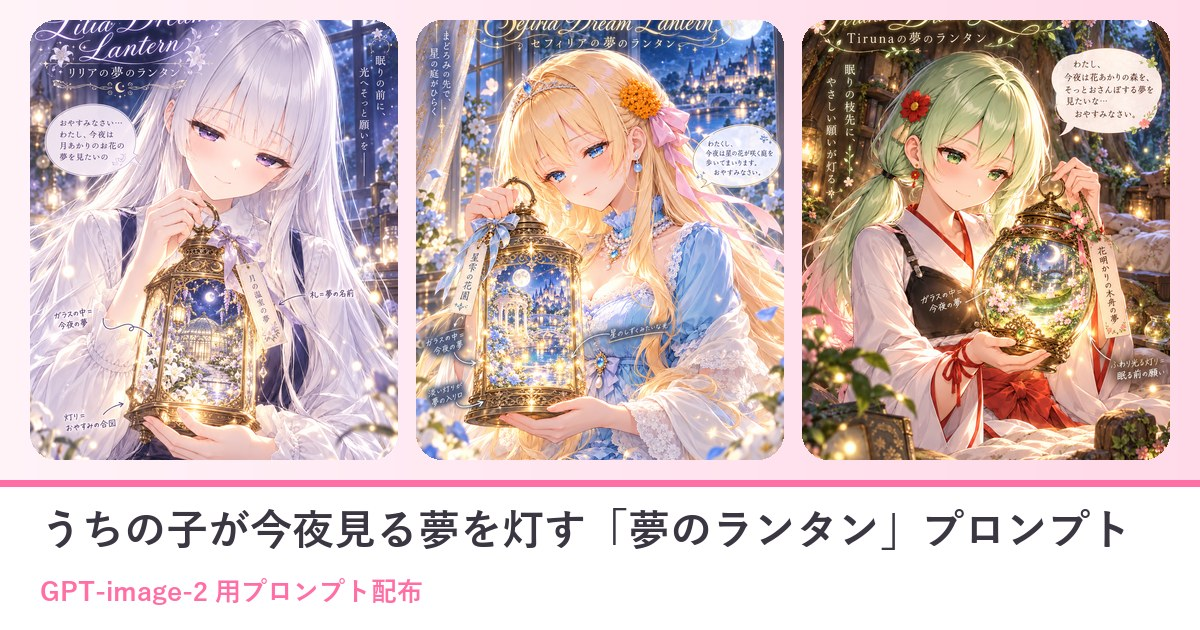
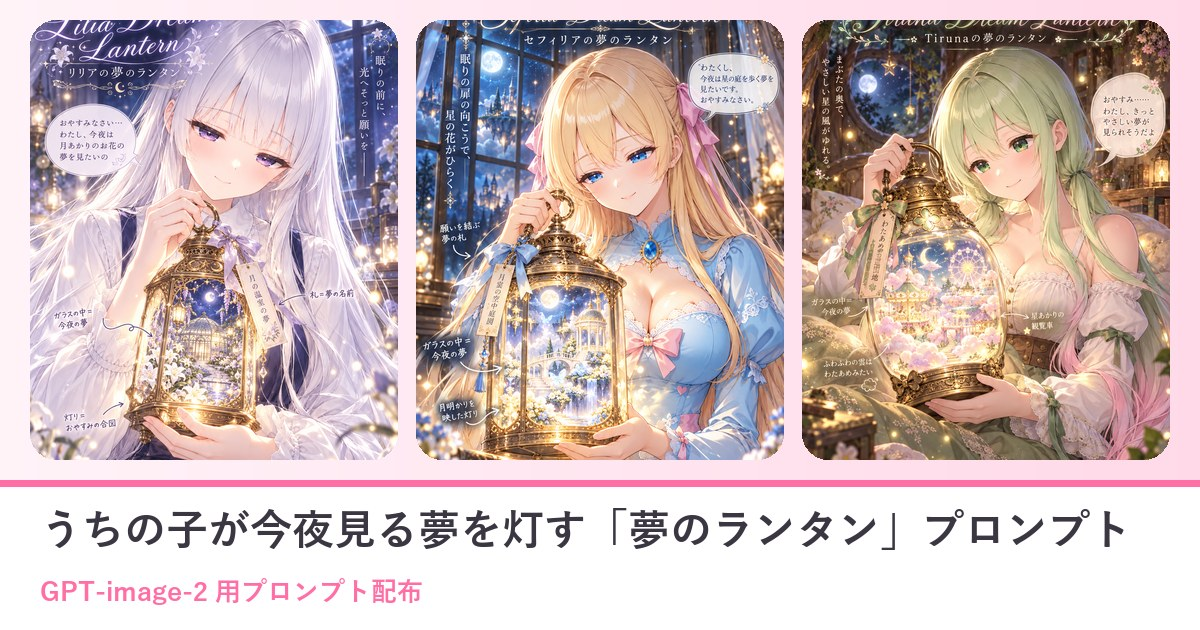
配布 10/15 夢のランタン：作例のセフィリア・ティルナをマスター添付で焼き直した絵に・会話劇とキャプションを合わせた（27216c27）

diff --git a/prompts/2026-10-15-gpt-cko54b3b.html b/prompts/2026-10-15-gpt-cko54b3b.html
@@ -74,7 +74,7 @@
 <div class="sky"></div>
 <main class="wrap">
 <section class="sec"><div class="sec-head"><h2>うちの子が今夜見る夢を灯す「夢のランタン」プロンプト</h2><p>ひみつの眠り姫のプロンプト配布</p></div>
-<div class="ps"><p><span class="ps-badge">GPT-image-2 用</span><span class="ps-badge">2026-10-15</span></p><p class="ps-lead">ChatGPT（GPT-image-2）に自分のキャラの絵を1枚渡して、この文を貼るだけ。月明かりの窓辺で、キャラが両手で小さなランタンを灯し、ガラスの中にその子が今夜見る夢の景色が映ります。夢の景色も、持ち手の札の夢の名前も、おやすみのひとことも、AIがキャラを読み取って考えてくれます。名前のほかは空欄でもOK。色・服・背景・ポーズ、夢のテーマを変えたいときは、その欄に書くだけです。</p><nav class="ps-toc" aria-label="目次"><p>📑 目次</p><ol><li><a href="#sec1">作例</a></li><li><a href="#sec2">3人のおしゃべり（夢のランタン）</a></li><li><a href="#sec3">使い方（3ステップ）</a></li><li><a href="#sec4">プロンプト</a></li><li><a href="#sec5">書くところ</a></li><li><a href="#sec6">（おまけ）元絵を綺麗にしておくと、もっと綺麗に</a></li><li><a href="#sec7">メモ</a></li><li><a href="#sec8">配布ルール</a></li></ol></nav><h2 id="sec1">作例</h2><div class="ps-ex"><figure><img src="img/2026-10-15-gpt-cko54b3b/ex1.webp" alt="名前「リリア」だけ（ほかの欄は空欄）＝夢の名前は「月の温室の夢」。ガラスの中に月夜の白い花の温室、吹き出しは「おやすみなさい…わたし、今夜は月あかりのお花の夢を見たいの」。注釈の「札＝夢の名前」「灯り＝おやすみの合図」もAIが考えました" loading="lazy"><figcaption>名前「リリア」だけ（ほかの欄は空欄）＝夢の名前は「月の温室の夢」。ガラスの中に月夜の白い花の温室、吹き出しは「おやすみなさい…わたし、今夜は月あかりのお花の夢を見たいの」。注釈の「札＝夢の名前」「灯り＝おやすみの合図」もAIが考えました</figcaption></figure><figure><img src="img/2026-10-15-gpt-cko54b3b/ex2.webp" alt="名前「セフィリア」・テーマカラー「淡い水色と金」・ポーズ・追加の指示「ロゴのローマ字は「Sefiria」と書く。吹き出しは一人称「わたくし」で、語尾に「わ」を付けないやさしい丁寧語に」（服・背景は空欄）＝夢の名前は「星雫の花園」。カタカナだけの名前だとロゴの綴りが思っていたものと違ったので、欄で綴りと口調を決めました" loading="lazy"><figcaption>名前「セフィリア」・テーマカラー「淡い水色と金」・ポーズ・追加の指示「ロゴのローマ字は「Sefiria」と書く。吹き出しは一人称「わたくし」で、語尾に「わ」を付けないやさしい丁寧語に」（服・背景は空欄）＝夢の名前は「星雫の花園」。カタカナだけの名前だとロゴの綴りが思っていたものと違ったので、欄で綴りと口調を決めました</figcaption></figure><figure><img src="img/2026-10-15-gpt-cko54b3b/ex3.webp" alt="名前「Tiruna」（アルファベット）・背景「森の中の木のうろのベッドのそば」・ポーズ・追加の指示「吹き出しは「わたし」で、やわらかい素直な話し方に」（服・色は空欄）＝夢の名前は「花明かりの木舟の夢」。窓辺が森のベッドのそばに変わりました" loading="lazy"><figcaption>名前「Tiruna」（アルファベット）・背景「森の中の木のうろのベッドのそば」・ポーズ・追加の指示「吹き出しは「わたし」で、やわらかい素直な話し方に」（服・色は空欄）＝夢の名前は「花明かりの木舟の夢」。窓辺が森のベッドのそばに変わりました</figcaption></figure></div><p style="font-size:.82rem;color:var(--ps-ink)">※作例の画像の転載・保存しての再配布はご遠慮ください。</p><h2 id="sec2">3人のおしゃべり（夢のランタン）</h2><div class="ps-chat"><img src="img/2026-10-15-gpt-cko54b3b/talk_lilia_normal.webp" alt="リリア" loading="lazy"><div><div class="who">リリア</div><div class="bub">（ひそひそ）セフィリア様、ティルナちゃん、まだ起きていますか？ ランタンの夢、見せ合いっこしましょう</div></div></div><div class="ps-chat r"><img src="img/2026-10-15-gpt-cko54b3b/talk_sefi_smug.webp" alt="セフィリア" loading="lazy"><div><div class="who">セフィリア</div><div class="bub">ええ、起きております。わたくしのは「星雫の花園」。ガラスの奥に、お城と星の花の咲く庭が見えますでしょう？</div></div></div><div class="ps-chat r"><img src="img/2026-10-15-gpt-cko54b3b/talk_tiru_laugh.webp" alt="ティルナ" loading="lazy"><div><div class="who">ティルナ</div><div class="bub">わたしのは「花明かりの木舟の夢」！ 木の舟に乗って、光るお花の森をすいーってお散歩するの</div></div></div><div class="ps-chat"><img src="img/2026-10-15-gpt-cko54b3b/talk_lilia_happy.webp" alt="リリア" loading="lazy"><div><div class="who">リリア</div><div class="bub">わたしのは「月の温室の夢」です。ガラスの中に、白いお花の温室が映っているんですよ</div></div></div><div class="ps-chat"><img src="img/2026-10-15-gpt-cko54b3b/talk_lilia_thinking.webp" alt="リリア" loading="lazy"><div><div class="who">リリア</div><div class="bub">では今夜は、みんなで夢の中で待ち合わせをしませんか？ 場所は……わたしの温室で</div></div></div><div class="ps-chat r"><img src="img/2026-10-15-gpt-cko54b3b/talk_tiru_surprised.webp" alt="ティルナ" loading="lazy"><div><div class="who">ティルナ</div><div class="bub">でもリリア、その温室って夢の中のどこにあるの？ 地図、持ってる？</div></div></div><div class="ps-chat"><img src="img/2026-10-15-gpt-cko54b3b/talk_lilia_panic.webp" alt="リリア" loading="lazy"><div><div class="who">リリア</div><div class="bub">……地図はありません。札に夢の名前を書いておけば、たどり着けると思っていたのですけれど</div></div></div><div class="ps-chat r"><img src="img/2026-10-15-gpt-cko54b3b/talk_sefi_laugh.webp" alt="セフィリア" loading="lazy"><div><div class="who">セフィリア</div><div class="bub">ふふ、リリアらしいです。それなら、わたくしの庭の橋を渡って、温室までお迎えにまいります</div></div></div><div class="ps-chat r"><img src="img/2026-10-15-gpt-cko54b3b/talk_tiru_happy.webp" alt="ティルナ" loading="lazy"><div><div class="who">ティルナ</div><div class="bub">じゃあわたしは、木舟でセフィーのお庭まで川をのぼっていくね！ 舟、三人乗れるかなあ</div></div></div><div class="ps-chat"><img src="img/2026-10-15-gpt-cko54b3b/talk_lilia_shy.webp" alt="リリア" loading="lazy"><div><div class="who">リリア</div><div class="bub">わたしのランタン、上の欄には名前しか書いていないのに、温室の夢をAIが考えてくれたんです</div></div></div><div class="ps-chat r"><img src="img/2026-10-15-gpt-cko54b3b/talk_sefi_wink.webp" alt="セフィリア" loading="lazy"><div><div class="who">セフィリア</div><div class="bub">わたくしは【ポーズ・追加の指示】に、ロゴの綴りと口調を書きました。おかげで、ちゃんと「Sefiria」です</div></div></div><div class="ps-chat r"><img src="img/2026-10-15-gpt-cko54b3b/talk_tiru_normal.webp" alt="ティルナ" loading="lazy"><div><div class="who">ティルナ</div><div class="bub">わたしは背景の欄に「木のうろのベッド」って書いたよ。森のおうちで眠ってるみたいになったの</div></div></div><div class="ps-chat"><img src="img/2026-10-15-gpt-cko54b3b/talk_lilia_happy.webp" alt="リリア" loading="lazy"><div><div class="who">リリア</div><div class="bub">三人の夢がガラスの中でつながっていたら、すてきですね。月の温室と、星の庭と、花の森</div></div></div><div class="ps-chat r"><img src="img/2026-10-15-gpt-cko54b3b/talk_tiru_laugh.webp" alt="ティルナ" loading="lazy"><div><div class="who">ティルナ</div><div class="bub">もし迷子になったら、ランタンをふって合図するね！ 光の粒がいっぱい飛ぶから、すぐわかるよ</div></div></div><div class="ps-chat r"><img src="img/2026-10-15-gpt-cko54b3b/talk_sefi_normal.webp" alt="セフィリア" loading="lazy"><div><div class="who">セフィリア</div><div class="bub">では、灯りを少しだけ落として……おやすみなさい、リリア、ティルナ</div></div></div><div class="ps-chat"><img src="img/2026-10-15-gpt-cko54b3b/talk_lilia_wink.webp" alt="リリア" loading="lazy"><div><div class="who">リリア</div><div class="bub">おやすみなさい、セフィリア様、ティルナちゃん。夢の中で、また</div></div></div><div class="ps-chat r"><img src="img/2026-10-15-gpt-cko54b3b/talk_tiru_happy.webp" alt="ティルナ" loading="lazy"><div><div class="who">ティルナ</div><div class="bub">おやすみ〜！ 先に着いた人が、温室でお茶をいれておくこと！</div></div></div><h2 id="sec3">使い方（3ステップ）</h2><ol class="ps-steps"><li>ChatGPT を開いて、画像を作れるモード（GPT-image-2）にする</li><li>自分のキャラの絵を1枚だけ添付する（自分の絵・使ってよい画像だけ。いつもの絵のままでOK。下の「おまけ」で元絵を作った人は元絵を）</li><li>下のプロンプトをワンタップでコピーして、いちばん上の「▼ ここに書く」の欄（色の付いたところ）にキャラの名前などを書いて送信する（名前のほかは空欄でもOK。服・背景・ポーズを変えたいときは、その欄に書くだけ）</li></ol><h2 id="sec4">プロンプト</h2><div class="ps-note" style="margin-bottom:12px"><b>書くのは「▼ ここに書く」の欄だけ</b><ul><li><mark style="background:var(--ps-soft);color:var(--ps-a);font-weight:700;border-bottom:2px dashed var(--ps-a);padding:0 4px">色の付いたところ</mark>（「：」のうしろ）に書くだけ。【 】は消さずにそのまま残してね</li><li>下の文章に出てくる【キャラの名前】などは書き換えなくてOK（AIが上の欄を読んでくれます）</li><li>任意の欄は空のままでも大丈夫（おまかせになります）</li><li>👗 <b>服・アクセサリー／背景／ポーズを変えたいときは、その欄に書くだけ</b>。欄に書いた内容が下の文章より優先されるように作ってあるので、下の文章は書き換えなくてOK。空欄なら、服とアクセサリーは添付した絵のまま、背景とポーズは下の文章のとおりになります。顔立ち・髪型・髪色・目の色は、いつも添付した絵のままです</li><li>💡 添付した絵と違う服にしたいときは、色と形まで具体的に書くと混ざりにくくなります（例：「白いニット」より「白いケーブル編みのニットと紺のプリーツスカート」）</li><li>🚫 添付する絵は<b>自分のキャラ・自分が権利を持つ画像だけ</b>。版権キャラ・他の人のキャラの画像は固く禁止です（下の「配布ルール」）</li></ul></div><div class="ps-box"><button class="ps-copy" type="button" data-target="ps-prompt">📋 ワンタップでコピー</button><p style="margin:0 0 8px;font-size:.82rem;color:var(--ps-a)">プロンプト</p><pre>添付した画像のキャラクターを読み取って、そのキャラが今夜見る夢の景色がガラスに映る「夢のランタン」を、キャラが両手で灯しているイラストを作ってください。
+<div class="ps"><p><span class="ps-badge">GPT-image-2 用</span><span class="ps-badge">2026-10-15</span></p><p class="ps-lead">ChatGPT（GPT-image-2）に自分のキャラの絵を1枚渡して、この文を貼るだけ。月明かりの窓辺で、キャラが両手で小さなランタンを灯し、ガラスの中にその子が今夜見る夢の景色が映ります。夢の景色も、持ち手の札の夢の名前も、おやすみのひとことも、AIがキャラを読み取って考えてくれます。名前のほかは空欄でもOK。色・服・背景・ポーズ、夢のテーマを変えたいときは、その欄に書くだけです。</p><nav class="ps-toc" aria-label="目次"><p>📑 目次</p><ol><li><a href="#sec1">作例</a></li><li><a href="#sec2">3人のおしゃべり（夢のランタン）</a></li><li><a href="#sec3">使い方（3ステップ）</a></li><li><a href="#sec4">プロンプト</a></li><li><a href="#sec5">書くところ</a></li><li><a href="#sec6">（おまけ）元絵を綺麗にしておくと、もっと綺麗に</a></li><li><a href="#sec7">メモ</a></li><li><a href="#sec8">配布ルール</a></li></ol></nav><h2 id="sec1">作例</h2><div class="ps-ex"><figure><img src="img/2026-10-15-gpt-cko54b3b/ex1.webp" alt="名前「リリア」だけ（ほかの欄は空欄）＝夢の名前は「月の温室の夢」。ガラスの中に月夜の白い花の温室、吹き出しは「おやすみなさい…わたし、今夜は月あかりのお花の夢を見たいの」。注釈の「札＝夢の名前」「灯り＝おやすみの合図」もAIが考えました" loading="lazy"><figcaption>名前「リリア」だけ（ほかの欄は空欄）＝夢の名前は「月の温室の夢」。ガラスの中に月夜の白い花の温室、吹き出しは「おやすみなさい…わたし、今夜は月あかりのお花の夢を見たいの」。注釈の「札＝夢の名前」「灯り＝おやすみの合図」もAIが考えました</figcaption></figure><figure><img src="img/2026-10-15-gpt-cko54b3b/ex2.webp" alt="名前「セフィリア」・テーマカラー「淡い水色と金」・ポーズ・追加の指示「ロゴのローマ字は「Sefiria」と書く。吹き出しは一人称「わたくし」で、語尾に「わ」を付けないやさしい丁寧語に」（服・背景は空欄）＝夢の名前は「月雲の空中庭園」。カタカナだけの名前だとロゴの綴りが思っていたものと違ったので、欄で綴りと口調を決めました" loading="lazy"><figcaption>名前「セフィリア」・テーマカラー「淡い水色と金」・ポーズ・追加の指示「ロゴのローマ字は「Sefiria」と書く。吹き出しは一人称「わたくし」で、語尾に「わ」を付けないやさしい丁寧語に」（服・背景は空欄）＝夢の名前は「月雲の空中庭園」。カタカナだけの名前だとロゴの綴りが思っていたものと違ったので、欄で綴りと口調を決めました</figcaption></figure><figure><img src="img/2026-10-15-gpt-cko54b3b/ex3.webp" alt="名前「Tiruna」（アルファベット）・背景「森の中の木のうろのベッドのそば」・ポーズ・追加の指示「吹き出しの文は、そのまま「おやすみ……わたし、きっとやさしい夢が見られそうだよ」と書く（敬語にしない）」（服・色は空欄）＝夢の名前は「わたあめの遊園地」。口調の指定だけでは丁寧語になったので、吹き出しの文をそのまま書いて決めました" loading="lazy"><figcaption>名前「Tiruna」（アルファベット）・背景「森の中の木のうろのベッドのそば」・ポーズ・追加の指示「吹き出しの文は、そのまま「おやすみ……わたし、きっとやさしい夢が見られそうだよ」と書く（敬語にしない）」（服・色は空欄）＝夢の名前は「わたあめの遊園地」。口調の指定だけでは丁寧語になったので、吹き出しの文をそのまま書いて決めました</figcaption></figure></div><p style="font-size:.82rem;color:var(--ps-ink)">※作例の画像の転載・保存しての再配布はご遠慮ください。</p><h2 id="sec2">3人のおしゃべり（夢のランタン）</h2><div class="ps-chat"><img src="img/2026-10-15-gpt-cko54b3b/talk_lilia_normal.webp" alt="リリア" loading="lazy"><div><div class="who">リリア</div><div class="bub">（ひそひそ）セフィリア様、ティルナちゃん、まだ起きていますか？ ランタンの夢、見せ合いっこしましょう</div></div></div><div class="ps-chat r"><img src="img/2026-10-15-gpt-cko54b3b/talk_sefi_smug.webp" alt="セフィリア" loading="lazy"><div><div class="who">セフィリア</div><div class="bub">ええ、起きております。わたくしのは「月雲の空中庭園」。ガラスの奥に、雲に浮かぶお城の庭が見えますでしょう？</div></div></div><div class="ps-chat r"><img src="img/2026-10-15-gpt-cko54b3b/talk_tiru_laugh.webp" alt="ティルナ" loading="lazy"><div><div class="who">ティルナ</div><div class="bub">わたしのは「わたあめの遊園地」！ ふわふわの雲がぜんぶわたあめで、星あかりの観覧車に乗るの</div></div></div><div class="ps-chat"><img src="img/2026-10-15-gpt-cko54b3b/talk_lilia_happy.webp" alt="リリア" loading="lazy"><div><div class="who">リリア</div><div class="bub">わたしのは「月の温室の夢」です。ガラスの中に、白いお花の温室が映っているんですよ</div></div></div><div class="ps-chat"><img src="img/2026-10-15-gpt-cko54b3b/talk_lilia_thinking.webp" alt="リリア" loading="lazy"><div><div class="who">リリア</div><div class="bub">では今夜は、みんなで夢の中で待ち合わせをしませんか？ 場所は……わたしの温室で</div></div></div><div class="ps-chat r"><img src="img/2026-10-15-gpt-cko54b3b/talk_tiru_surprised.webp" alt="ティルナ" loading="lazy"><div><div class="who">ティルナ</div><div class="bub">でもリリア、その温室って夢の中のどこにあるの？ 地図、持ってる？</div></div></div><div class="ps-chat"><img src="img/2026-10-15-gpt-cko54b3b/talk_lilia_panic.webp" alt="リリア" loading="lazy"><div><div class="who">リリア</div><div class="bub">……地図はありません。札に夢の名前を書いておけば、たどり着けると思っていたのですけれど</div></div></div><div class="ps-chat r"><img src="img/2026-10-15-gpt-cko54b3b/talk_sefi_laugh.webp" alt="セフィリア" loading="lazy"><div><div class="who">セフィリア</div><div class="bub">ふふ、リリアらしいです。それなら、わたくしの庭の橋を渡って、温室までお迎えにまいります</div></div></div><div class="ps-chat r"><img src="img/2026-10-15-gpt-cko54b3b/talk_tiru_happy.webp" alt="ティルナ" loading="lazy"><div><div class="who">ティルナ</div><div class="bub">じゃあわたしは、観覧車のてっぺんからセフィーのお庭を探すね！ ゴンドラ、三人乗れるかなあ</div></div></div><div class="ps-chat"><img src="img/2026-10-15-gpt-cko54b3b/talk_lilia_shy.webp" alt="リリア" loading="lazy"><div><div class="who">リリア</div><div class="bub">わたしのランタン、上の欄には名前しか書いていないのに、温室の夢をAIが考えてくれたんです</div></div></div><div class="ps-chat r"><img src="img/2026-10-15-gpt-cko54b3b/talk_sefi_wink.webp" alt="セフィリア" loading="lazy"><div><div class="who">セフィリア</div><div class="bub">わたくしは【ポーズ・追加の指示】に、ロゴの綴りと口調を書きました。おかげで、ちゃんと「Sefiria」です</div></div></div><div class="ps-chat r"><img src="img/2026-10-15-gpt-cko54b3b/talk_tiru_normal.webp" alt="ティルナ" loading="lazy"><div><div class="who">ティルナ</div><div class="bub">わたしは背景の欄に「木のうろのベッド」って書いたよ。森のおうちで眠ってるみたいになったの</div></div></div><div class="ps-chat"><img src="img/2026-10-15-gpt-cko54b3b/talk_lilia_happy.webp" alt="リリア" loading="lazy"><div><div class="who">リリア</div><div class="bub">三人の夢がガラスの中でつながっていたら、すてきですね。月の温室と、空中庭園と、わたあめの遊園地</div></div></div><div class="ps-chat r"><img src="img/2026-10-15-gpt-cko54b3b/talk_tiru_laugh.webp" alt="ティルナ" loading="lazy"><div><div class="who">ティルナ</div><div class="bub">もし迷子になったら、ランタンをふって合図するね！ 光の粒がいっぱい飛ぶから、すぐわかるよ</div></div></div><div class="ps-chat r"><img src="img/2026-10-15-gpt-cko54b3b/talk_sefi_normal.webp" alt="セフィリア" loading="lazy"><div><div class="who">セフィリア</div><div class="bub">では、灯りを少しだけ落として……おやすみなさい、リリア、ティルナ</div></div></div><div class="ps-chat"><img src="img/2026-10-15-gpt-cko54b3b/talk_lilia_wink.webp" alt="リリア" loading="lazy"><div><div class="who">リリア</div><div class="bub">おやすみなさい、セフィリア様、ティルナちゃん。夢の中で、また</div></div></div><div class="ps-chat r"><img src="img/2026-10-15-gpt-cko54b3b/talk_tiru_happy.webp" alt="ティルナ" loading="lazy"><div><div class="who">ティルナ</div><div class="bub">おやすみ〜！ 先に着いた人が、温室でお茶をいれておくこと！</div></div></div><h2 id="sec3">使い方（3ステップ）</h2><ol class="ps-steps"><li>ChatGPT を開いて、画像を作れるモード（GPT-image-2）にする</li><li>自分のキャラの絵を1枚だけ添付する（自分の絵・使ってよい画像だけ。いつもの絵のままでOK。下の「おまけ」で元絵を作った人は元絵を）</li><li>下のプロンプトをワンタップでコピーして、いちばん上の「▼ ここに書く」の欄（色の付いたところ）にキャラの名前などを書いて送信する（名前のほかは空欄でもOK。服・背景・ポーズを変えたいときは、その欄に書くだけ）</li></ol><h2 id="sec4">プロンプト</h2><div class="ps-note" style="margin-bottom:12px"><b>書くのは「▼ ここに書く」の欄だけ</b><ul><li><mark style="background:var(--ps-soft);color:var(--ps-a);font-weight:700;border-bottom:2px dashed var(--ps-a);padding:0 4px">色の付いたところ</mark>（「：」のうしろ）に書くだけ。【 】は消さずにそのまま残してね</li><li>下の文章に出てくる【キャラの名前】などは書き換えなくてOK（AIが上の欄を読んでくれます）</li><li>任意の欄は空のままでも大丈夫（おまかせになります）</li><li>👗 <b>服・アクセサリー／背景／ポーズを変えたいときは、その欄に書くだけ</b>。欄に書いた内容が下の文章より優先されるように作ってあるので、下の文章は書き換えなくてOK。空欄なら、服とアクセサリーは添付した絵のまま、背景とポーズは下の文章のとおりになります。顔立ち・髪型・髪色・目の色は、いつも添付した絵のままです</li><li>💡 添付した絵と違う服にしたいときは、色と形まで具体的に書くと混ざりにくくなります（例：「白いニット」より「白いケーブル編みのニットと紺のプリーツスカート」）</li><li>🚫 添付する絵は<b>自分のキャラ・自分が権利を持つ画像だけ</b>。版権キャラ・他の人のキャラの画像は固く禁止です（下の「配布ルール」）</li></ul></div><div class="ps-box"><button class="ps-copy" type="button" data-target="ps-prompt">📋 ワンタップでコピー</button><p style="margin:0 0 8px;font-size:.82rem;color:var(--ps-a)">プロンプト</p><pre>添付した画像のキャラクターを読み取って、そのキャラが今夜見る夢の景色がガラスに映る「夢のランタン」を、キャラが両手で灯しているイラストを作ってください。
 ガラスに映る夢の景色、夢の名前、持ち手の札の文字、キャラからのひとことは、キャラの見た目や性格からあなたが考えて書いてください。
 
 ▼ ここに書く（「：」のうしろに書くだけ。【 】は消さずにそのまま。名前だけは必ず書く。ほかの空の欄はおまかせ）
@@ -178,7 +178,7 @@
 ・服のレースやフリル、刺繍、アクセサリーの宝石と金具まで細かく描く
 ・やわらかな光で輪郭をきれいに。上品で透明感のある配色、ハイエンドなアニメイラストの最高品質、超高精細
 ・縦長 2:3
-</textarea></div><div class="ps-note" style="margin-top:12px"><b>うまくいかない時</b><ul><li>元絵は、ランタンを灯す絵に入れやすい、胸の前で両手をそっと重ねて小さな灯りを包む腰から上の形にしてあります（上の作例のリリアは、この元絵から作りました）。</li></ul></div><h2 id="sec7">メモ</h2><ul class="ps-rules"><li>夢の景色と夢の名前は、毎回AIがキャラに合わせて考えます（上の3枚でも「月の温室の夢」「星雫の花園」「花明かりの木舟の夢」と分かれました）。</li><li>ロゴの綴りを決めたいときは、【キャラの名前】をアルファベットで書くか、【ポーズ・追加の指示】に「ロゴのローマ字は〇〇と書く」と書いてください（カタカナだけだと、AIが読みから綴りを考えます）。</li><li>絵の中のひとことの口調は、AIが絵から想像します。一人称や語尾を決めたいときは【ポーズ・追加の指示】に「吹き出しは一人称〇〇で、〇〇な話し方に」のように書いてください。</li><li>夢のテーマを決めたいときは【ポーズ・追加の指示】に「お菓子の国の夢」「空を飛ぶ夢」のように書くと、ガラスの中の景色がそちらになります。</li><li>値段や年号・日付・パーセントの数字は入らないようにしてあります。</li><li>服を変えたら顔や髪まで変わってしまったときは、同じチャットで「顔立ち・髪型・髪色・目の色は添付画像のままで、服とアクセサリーだけ【服・アクセサリー】にして描き直して」と送ってください。</li><li>文字がつぶれたり誤字があるときは、同じチャットで「文字の崩れと誤字を直して、もう一度」と送ると直りやすいです。</li><li>「■ 上の欄の使い方」と「■ 仕上がりの質」の段落は消さずにそのまま送ってください。欄に書いた内容が優先されるのと、真鍮の細工やガラスの映り込み、月明かりと灯りの対比は、ここで決まっています。</li></ul><h2 id="sec8">配布ルール</h2><ul class="ps-rules"><li>⭕ プロンプトの改変は自由です。</li><li>⭕ 生成した画像は SNS に投稿して大丈夫です。</li><li>❌ プロンプト文そのものの転載・再配布・販売はしないでください。</li><li>❌ 自作のプロンプトだと名乗ることはやめてください。</li><li>❌ このページの作例画像の無断転載はしないでください。</li><li class="ps-rights">🚫 <b>アニメ・漫画・ゲームなどの版権キャラクター（著作権・商標のあるキャラ）、他の人のキャラクターやイラスト、実在の人物の写真を添付画像にして使うことは固く禁止します。</b>版権キャラの名前や、版権キャラの LoRA を入れて使うことも禁止です。</li><li>✅ 添付してよいのは、<b>自分で作ったキャラクター・自分が権利を持つ画像</b>（または権利者から使ってよいと言われた画像）だけです。</li><li>⚠ 生成した画像の使い方（投稿・公開など）は、使った人の責任でお願いします。権利の問題が起きても、配布者は責任を負えません。</li><li>💌 使ったら <b>#眠り姫プロンプト</b> を付けて見せてくれたら、とても嬉しいです（任意です）。</li></ul><p class="ps-bn-ask" style="margin:22px 0 0;font-size:.92rem">📚 これまでの配布プロンプト（バックナンバー）が見たい方は、直接ひみつの眠り姫までお気軽にお問い合わせください。</p></div>
+</textarea></div><div class="ps-note" style="margin-top:12px"><b>うまくいかない時</b><ul><li>元絵は、ランタンを灯す絵に入れやすい、胸の前で両手をそっと重ねて小さな灯りを包む腰から上の形にしてあります（上の作例のリリアは、この元絵から作りました）。</li></ul></div><h2 id="sec7">メモ</h2><ul class="ps-rules"><li>夢の景色と夢の名前は、毎回AIがキャラに合わせて考えます（上の3枚でも「月の温室の夢」「月雲の空中庭園」「わたあめの遊園地」と分かれました）。</li><li>ロゴの綴りを決めたいときは、【キャラの名前】をアルファベットで書くか、【ポーズ・追加の指示】に「ロゴのローマ字は〇〇と書く」と書いてください（カタカナだけだと、AIが読みから綴りを考えます）。</li><li>絵の中のひとことの口調は、AIが絵から想像します。一人称や語尾を決めたいときは【ポーズ・追加の指示】に「吹き出しは一人称〇〇で、〇〇な話し方に」のように書いてください。</li><li>夢のテーマを決めたいときは【ポーズ・追加の指示】に「お菓子の国の夢」「空を飛ぶ夢」のように書くと、ガラスの中の景色がそちらになります。</li><li>値段や年号・日付・パーセントの数字は入らないようにしてあります。</li><li>服を変えたら顔や髪まで変わってしまったときは、同じチャットで「顔立ち・髪型・髪色・目の色は添付画像のままで、服とアクセサリーだけ【服・アクセサリー】にして描き直して」と送ってください。</li><li>文字がつぶれたり誤字があるときは、同じチャットで「文字の崩れと誤字を直して、もう一度」と送ると直りやすいです。</li><li>「■ 上の欄の使い方」と「■ 仕上がりの質」の段落は消さずにそのまま送ってください。欄に書いた内容が優先されるのと、真鍮の細工やガラスの映り込み、月明かりと灯りの対比は、ここで決まっています。</li></ul><h2 id="sec8">配布ルール</h2><ul class="ps-rules"><li>⭕ プロンプトの改変は自由です。</li><li>⭕ 生成した画像は SNS に投稿して大丈夫です。</li><li>❌ プロンプト文そのものの転載・再配布・販売はしないでください。</li><li>❌ 自作のプロンプトだと名乗ることはやめてください。</li><li>❌ このページの作例画像の無断転載はしないでください。</li><li class="ps-rights">🚫 <b>アニメ・漫画・ゲームなどの版権キャラクター（著作権・商標のあるキャラ）、他の人のキャラクターやイラスト、実在の人物の写真を添付画像にして使うことは固く禁止します。</b>版権キャラの名前や、版権キャラの LoRA を入れて使うことも禁止です。</li><li>✅ 添付してよいのは、<b>自分で作ったキャラクター・自分が権利を持つ画像</b>（または権利者から使ってよいと言われた画像）だけです。</li><li>⚠ 生成した画像の使い方（投稿・公開など）は、使った人の責任でお願いします。権利の問題が起きても、配布者は責任を負えません。</li><li>💌 使ったら <b>#眠り姫プロンプト</b> を付けて見せてくれたら、とても嬉しいです（任意です）。</li></ul><p class="ps-bn-ask" style="margin:22px 0 0;font-size:.92rem">📚 これまでの配布プロンプト（バックナンバー）が見たい方は、直接ひみつの眠り姫までお気軽にお問い合わせください。</p></div>
 <p style="text-align:center;margin:34px 0 0"><a class="gate-btn ghost" href="../index.html" style="color:var(--ink-dim);border-color:var(--line)">部屋に戻る</a></p>
 </section>
 <p id="ps-views" hidden style="text-align:center;font-size:12px;opacity:.55;margin:22px 0 6px"></p>
